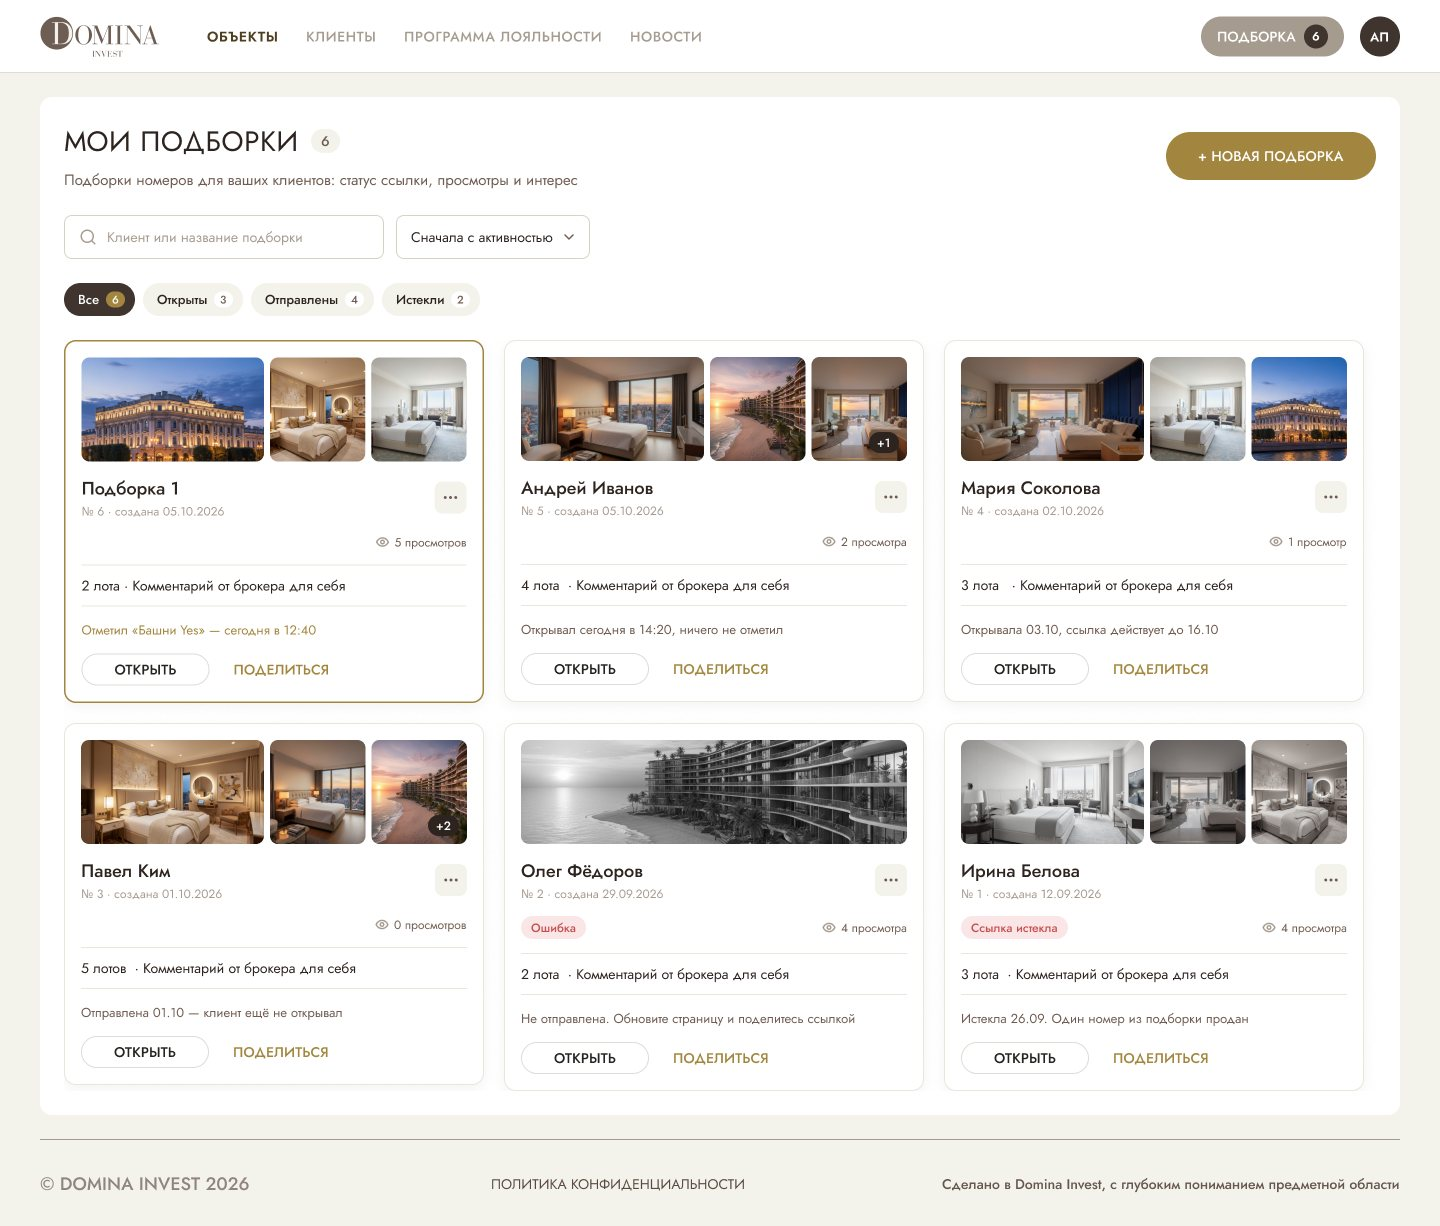
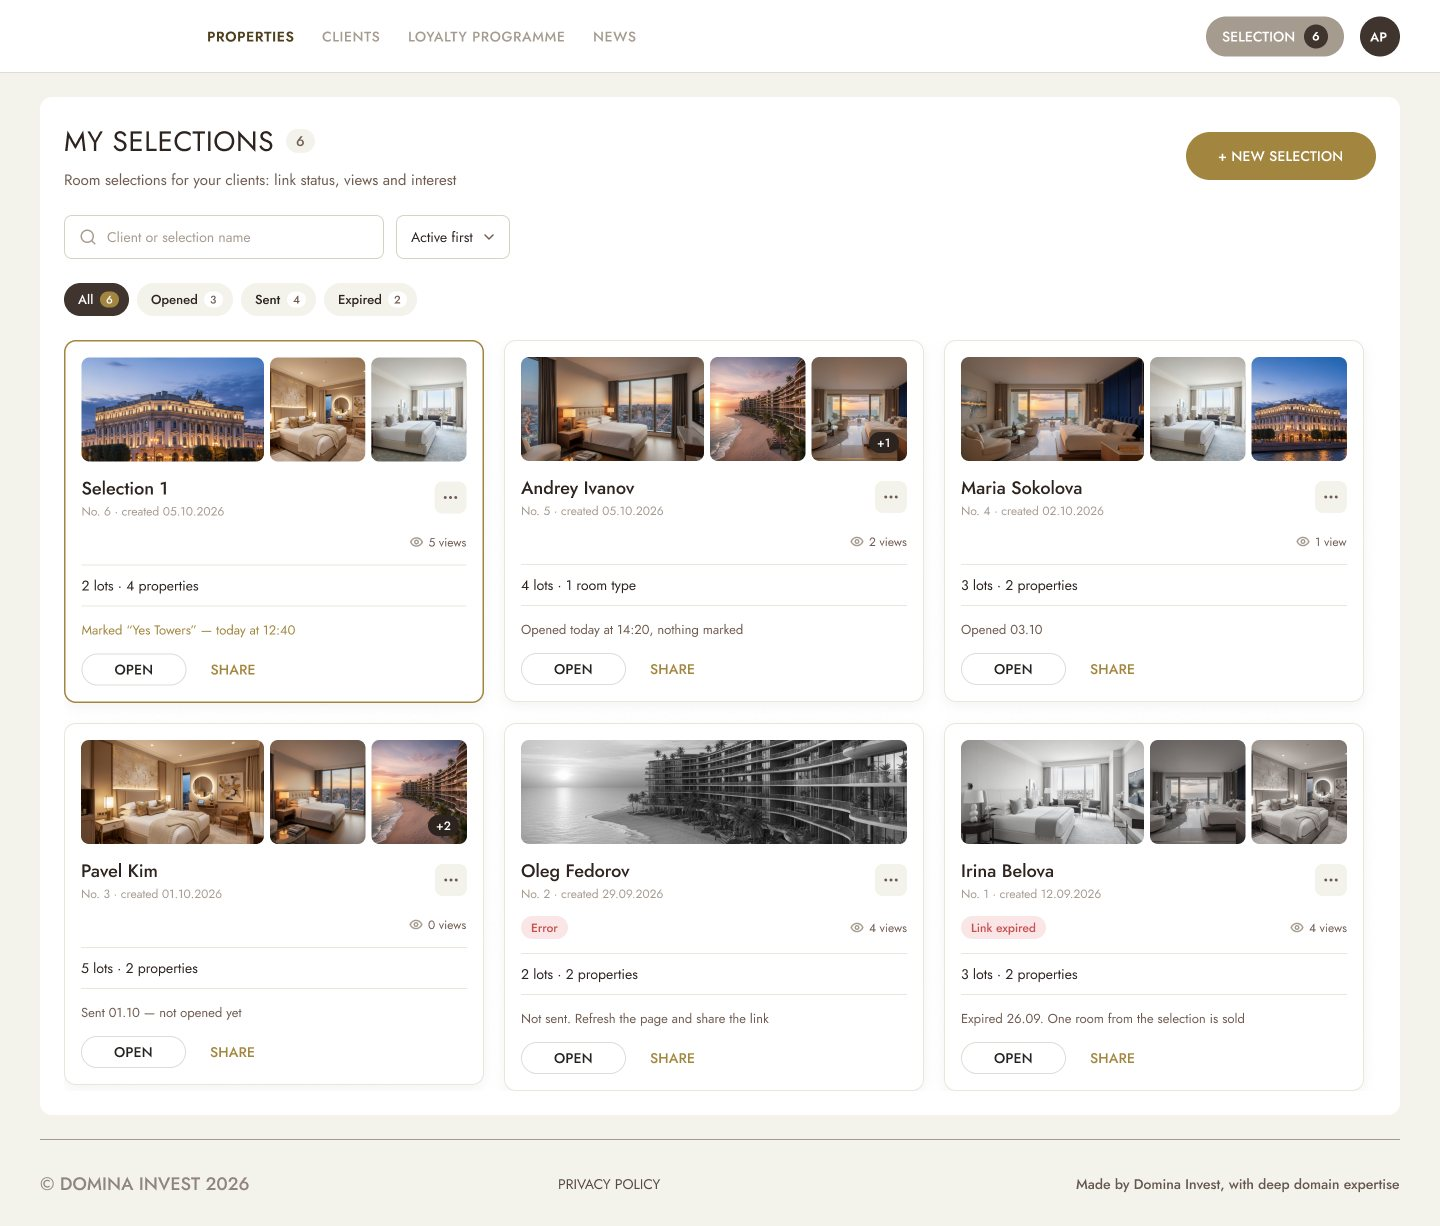
Domina case: replace product screens with English versions
Claude-Session: https://claude.ai/code/session_01CvcxoMTCpv2boHEkqs8H7c

diff --git a/case-studies/domina.html b/case-studies/domina.html
@@ -84,7 +84,7 @@
     </dl>
 
     <div class="cs-hero__visual dm-hero-visual">
-      <img src="../assets/img/case-studies/domina/hero.jpg" alt="Domina Invest real estate broker platform: object showcase, mobile room chessboard and loyalty screens" width="1600" height="900" loading="eager">
+      <img src="../assets/img/case-studies/domina/hero.jpg?v=en" alt="Domina Invest real estate broker platform: object showcase, mobile room chessboard and loyalty screens" width="1600" height="900" loading="eager">
     </div>
   </section>
 
@@ -245,8 +245,8 @@
         <p data-ru="Три шага с прогресс-баром, выбор роли (агент или агентство), вход через Яндекс ID. Поле «сайт или карточка на картах» необязательное, но ускоряет проверку агентства.">Three steps with a progress bar, role choice (real estate broker or agency) and Yandex ID. The optional “website or map listing” field speeds up agency verification.</p>
       </div>
       <div class="dm-feature__visual dm-pair">
-        <img src="../assets/img/case-studies/domina/login.jpg" alt="Sign-in screen" loading="lazy">
-        <img src="../assets/img/case-studies/domina/signup-agent.jpg" alt="Real estate broker details step of sign-up" loading="lazy">
+        <img src="../assets/img/case-studies/domina/login.jpg?v=en" alt="Sign-in screen" loading="lazy">
+        <img src="../assets/img/case-studies/domina/signup-agent.jpg?v=en" alt="Real estate broker details step of sign-up" loading="lazy">
       </div>
     </div>
 
@@ -257,8 +257,8 @@
         <p data-ru="Фильтры, которые важны агенту: доход инвестора, комиссия, стадия, звёздность. Карточка сразу показывает стоимость лота, вознаграждение и доходность, а теги «Эксклюзив» и «Повышенная комиссия» подсказывают, что продавать в первую очередь.">Filters that matter to real estate brokers: investor yield, commission, stage, star rating. Each card shows lot price, reward and yield up front, and “Exclusive” and “Higher commission” tags hint at what to sell first.</p>
       </div>
       <div class="dm-feature__visual dm-device-row">
-        <img class="dm-shot" src="../assets/img/case-studies/domina/showcase.jpg" alt="Object showcase with filters and hotel cards" loading="lazy">
-        <img class="dm-phone" src="../assets/img/case-studies/domina/showcase-mobile.jpg" alt="Mobile object showcase" loading="lazy">
+        <img class="dm-shot" src="../assets/img/case-studies/domina/showcase.jpg?v=en" alt="Object showcase with filters and hotel cards" loading="lazy">
+        <img class="dm-phone" src="../assets/img/case-studies/domina/showcase-mobile.jpg?v=en" alt="Mobile object showcase" loading="lazy">
       </div>
     </div>
 
@@ -269,8 +269,8 @@
         <p data-ru="Ключевые цифры для разговора с клиентом — выкуп через 10 лет, вознаграждение, доходность, управляющая компания — вынесены в отдельную строку. Ниже: галерея, характеристики, теги инфраструктуры и вход в шахматку.">The numbers a real estate broker needs on a call — buy-back after 10 years, reward, yield, management company — sit in a dedicated strip. Below: gallery, specs, amenity tags and the entry to the chessboard.</p>
       </div>
       <div class="dm-feature__visual dm-stack">
-        <img class="dm-shot" src="../assets/img/case-studies/domina/object-stats.jpg" alt="Key figures strip on the object page" loading="lazy">
-        <img class="dm-shot" src="../assets/img/case-studies/domina/object-card-hero.jpg" alt="Object page with gallery and description" loading="lazy">
+        <img class="dm-shot" src="../assets/img/case-studies/domina/object-stats.jpg?v=en" alt="Key figures strip on the object page" loading="lazy">
+        <img class="dm-shot" src="../assets/img/case-studies/domina/object-card-hero.jpg?v=en" alt="Object page with gallery and description" loading="lazy">
       </div>
     </div>
 
@@ -281,13 +281,13 @@
         <p data-ru="Сетка по этажам с ценой и площадью в каждой ячейке, фильтры по категории, площади, этажу и цене, переключение «сетка / список». Данные приходят из Profitbase. Сделала светлую, тёмную и мобильную версии.">A floor-by-floor grid with price and area in every cell, filters by category, area, floor and price, and a grid/list toggle. Data comes from Profitbase. I designed light, dark and mobile versions.</p>
       </div>
       <div class="dm-feature__visual dm-device-row">
-        <img class="dm-shot" src="../assets/img/case-studies/domina/chess-grid.jpg" alt="Room chessboard, light theme" loading="lazy">
-        <img class="dm-phone" src="../assets/img/case-studies/domina/chess-mobile.jpg" alt="Mobile room chessboard" loading="lazy">
+        <img class="dm-shot" src="../assets/img/case-studies/domina/chess-grid.jpg?v=en" alt="Room chessboard, light theme" loading="lazy">
+        <img class="dm-phone" src="../assets/img/case-studies/domina/chess-mobile.jpg?v=en" alt="Mobile room chessboard" loading="lazy">
       </div>
     </div>
 
     <figure class="dm-wide">
-      <img src="../assets/img/case-studies/domina/chess-dark.jpg" alt="Room chessboard, dark theme with selection bar" loading="lazy">
+      <img src="../assets/img/case-studies/domina/chess-dark.jpg?v=en" alt="Room chessboard, dark theme with selection bar" loading="lazy">
       <figcaption data-ru="Тёмная тема шахматки: категории номеров, строка текущей подборки и фиксация клиента прямо из сетки">Dark chessboard: room categories, the current selection bar and client fixation straight from the grid</figcaption>
     </figure>
 
@@ -298,7 +298,7 @@
         <p data-ru="Агент собирает лоты в подборку и отправляет ссылку. В списке видно статус ссылки, просмотры и что отметил клиент — «Отметил «Башни Yes» сегодня в 12:40». Подборка становится поводом для следующего звонка.">The real estate broker bundles lots into a selection and shares a link. The list shows link status, views and what the client picked — “Marked Bashni Yes today at 12:40”. Every selection becomes a reason for the next call.</p>
       </div>
       <div class="dm-feature__visual">
-        <img class="dm-shot" src="../assets/img/case-studies/domina/selections.jpg" alt="My selections page with client activity" loading="lazy">
+        <img class="dm-shot" src="../assets/img/case-studies/domina/selections.jpg?v=en" alt="My selections page with client activity" loading="lazy">
       </div>
     </div>
 
@@ -309,12 +309,12 @@
         <p data-ru="Одна форма вместо регламентов разных застройщиков: объекты, бюджет, способ оплаты и формат презентации — онлайн или встреча в холле отеля. После отправки клиент проходит 9 статусов от проверки на уникальность до выплаты комиссии.">One form instead of every developer's own rules: objects, budget, payment method and presentation format — online or in the hotel lobby. After submission the client moves through 9 statuses, from uniqueness check to commission payout.</p>
       </div>
       <div class="dm-feature__visual">
-        <img class="dm-shot dm-shot--tall" src="../assets/img/case-studies/domina/fixation.jpg" alt="Client fixation form" loading="lazy">
+        <img class="dm-shot dm-shot--tall" src="../assets/img/case-studies/domina/fixation.jpg?v=en" alt="Client fixation form" loading="lazy">
       </div>
     </div>
 
     <figure class="dm-wide">
-      <img src="../assets/img/case-studies/domina/client-statuses.jpg" alt="Client status reference table" loading="lazy">
+      <img src="../assets/img/case-studies/domina/client-statuses.jpg?v=en" alt="Client status reference table" loading="lazy">
       <figcaption data-ru="Справочник статусов: что означает статус, что делает агент, срок и следующий шаг — для разработки, поддержки и самого агента">Status reference: meaning, the real estate broker's next action, timing and the following status — for developers, support and real estate brokers alike</figcaption>
     </figure>
 
@@ -325,8 +325,8 @@
         <p data-ru="Баланс бонусов, лестница наград от ночи в Domina St. Petersburg до поездки в Шарм-эль-Шейх, история начислений, рейтинг партнёров и реферальная ссылка. На мобильном — акции застройщиков каруселью.">Bonus balance, a reward ladder from a night at Domina St. Petersburg to a trip to Sharm El Sheikh, accrual history, partner leaderboard and a referral link. On mobile, developer promos live in a carousel.</p>
       </div>
       <div class="dm-feature__visual dm-device-row">
-        <img class="dm-shot" src="../assets/img/case-studies/domina/loyalty-desktop.jpg" alt="Loyalty page, desktop" loading="lazy">
-        <img class="dm-phone" src="../assets/img/case-studies/domina/loyalty-mobile.jpg" alt="Loyalty page, mobile" loading="lazy">
+        <img class="dm-shot" src="../assets/img/case-studies/domina/loyalty-desktop.jpg?v=en" alt="Loyalty page, desktop" loading="lazy">
+        <img class="dm-phone" src="../assets/img/case-studies/domina/loyalty-mobile.jpg?v=en" alt="Loyalty page, mobile" loading="lazy">
       </div>
     </div>
   </section>
@@ -344,7 +344,7 @@
     </div>
     <div class="dm-compare">
       <figure><span class="dm-tag dm-tag--muted" data-ru="Концепт v1">Concept v1</span><img src="../assets/img/case-studies/domina/concept-v1-fixation.jpg" alt="Early concept of the fixation screen" loading="lazy"><figcaption data-ru="Первый концепт: CRM с сайдбаром и семью разделами — слишком сложно для агента, который пришёл попробовать">First concept: a CRM with a sidebar and seven sections — too heavy for a real estate broker who just came to try</figcaption></figure>
-      <figure><span class="dm-tag" data-ru="Финал">Final</span><img src="../assets/img/case-studies/domina/fixation.jpg" alt="Final fixation form" loading="lazy"><figcaption data-ru="Финал: верхняя навигация из четырёх разделов и одна линейная форма">Final: four top-level sections and one linear form</figcaption></figure>
+      <figure><span class="dm-tag" data-ru="Финал">Final</span><img src="../assets/img/case-studies/domina/fixation.jpg?v=en" alt="Final fixation form" loading="lazy"><figcaption data-ru="Финал: верхняя навигация из четырёх разделов и одна линейная форма">Final: four top-level sections and one linear form</figcaption></figure>
     </div>
   </section>
 
